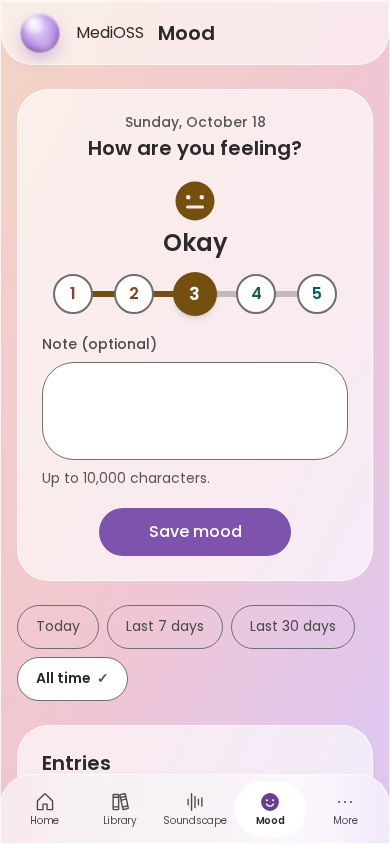
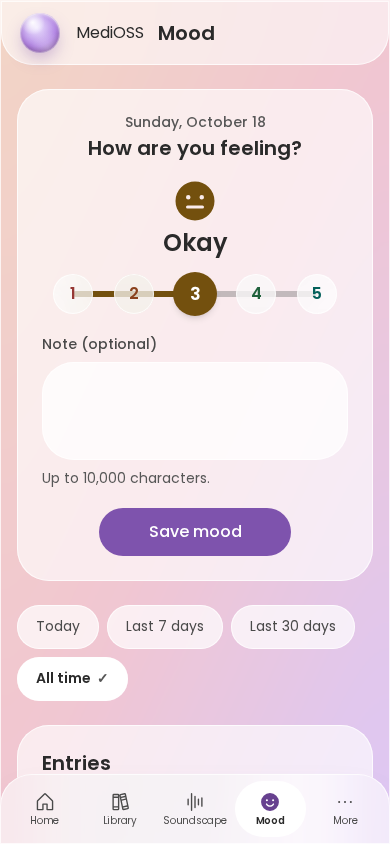
feat(web-ui): apply glass-control to every interactive control (Efe review) (#28)
* feat(web-ui): apply glass-control to every interactive control (Efe E1/E2)

The glass-control utility and --surface-control tokens shipped in
#26 but no component used them — chips, inputs, selects, textarea,
toggle, checkbox, popover trigger and the mood stops kept their flat
white fill. Apply the utility everywhere, and composite the control
fill over every surface in the contrast tests so text on the new
glass is proven >= 4.5:1.

* docs(pr): crops evidence + prettier formatting for glass controls

diff --git a/src/apps/web-ui/src/lib/components/ui/chip-group/chip-group.svelte b/src/apps/web-ui/src/lib/components/ui/chip-group/chip-group.svelte
@@ -45,10 +45,10 @@
       {@const selected = value === option.value}
       <label
         class={cn(
-          "relative inline-flex min-h-11 min-w-11 max-w-full cursor-pointer items-center justify-center gap-1.5 rounded-full border border-control-border px-4.5 py-1 text-center text-sm break-words [&_svg]:shrink-0 leading-tight select-none has-focus-visible:outline-2 has-focus-visible:outline-offset-2 has-focus-visible:outline-accent-strong motion-safe:transition-colors motion-safe:duration-(--duration-fast)",
+          "glass-control relative inline-flex min-h-11 min-w-11 max-w-full cursor-pointer items-center justify-center gap-1.5 rounded-full px-4.5 py-1 text-center text-sm break-words [&_svg]:shrink-0 leading-tight select-none has-focus-visible:outline-2 has-focus-visible:outline-offset-2 has-focus-visible:outline-accent-strong motion-safe:transition-colors motion-safe:duration-(--duration-fast)",
           selected
-            ? "bg-surface-solid font-semibold text-ink-strong"
-            : "bg-transparent font-normal text-ink-body hover:bg-surface-solid/50",
+            ? "glass-control-active font-semibold text-ink-strong"
+            : "font-normal text-ink-body hover:bg-surface-solid/50",
         )}
       >
         <input

diff --git a/src/apps/web-ui/src/styles/global-css-contrast.test.ts b/src/apps/web-ui/src/styles/global-css-contrast.test.ts
@@ -109,6 +109,10 @@ for (let i = 0; i < canvasStops.length; i++) {
 
 type Surface = { name: string; rgb: Rgb };
 
+function allSurfacesSoFar(out: Surface[]): Surface[] {
+  return [...out];
+}
+
 function surfaces(): Surface[] {
   const out: Surface[] = [];
   const shell = color("--surface-shell");
@@ -139,6 +143,19 @@ function surfaces(): Surface[] {
   out.push({
     name: "surface-panel-opaque",
     rgb: opaque("--surface-panel-opaque"),
+  });
+  // The glass-control fill over every canvas and surface: controls sit on
+  // the shell and panels, so their translucent white lands on all of it.
+  const control = color("--surface-control");
+  for (const base of allSurfacesSoFar(out)) {
+    out.push({
+      name: `surface-control over ${base.name}`,
+      rgb: over(control, base.rgb),
+    });
+  }
+  out.push({
+    name: "surface-control-opaque",
+    rgb: opaque("--surface-control-opaque"),
   });
   out.push({
     name: "accent-soft over surface-solid",
@@ -200,6 +217,8 @@ describe("global.css parser guard", () => {
       "--surface-shell",
       "--surface-panel",
       "--surface-solid",
+      "--surface-control",
+      "--surface-control-opaque",
     ]) {
       expect(() => color(name)).not.toThrow();
     }

diff --git a/src/apps/web-ui/src/lib/components/ui/input/input.svelte b/src/apps/web-ui/src/lib/components/ui/input/input.svelte
@@ -34,7 +34,7 @@
 
   const classes = $derived(
     cn(
-      "focus-ring h-12 w-full min-w-0 rounded-full border border-control-border bg-surface-solid px-5 text-base text-ink-strong placeholder:text-ink-muted aria-invalid:border-destructive disabled:cursor-not-allowed disabled:opacity-60 file:mr-3 file:border-0 file:bg-transparent file:py-3 file:text-sm file:font-medium file:text-ink-strong",
+      "glass-control focus-ring h-12 w-full min-w-0 rounded-full px-5 text-base text-ink-strong placeholder:text-ink-muted aria-invalid:border-destructive disabled:cursor-not-allowed disabled:opacity-60 file:mr-3 file:border-0 file:bg-transparent file:py-3 file:text-sm file:font-medium file:text-ink-strong",
       className,
     ),
   );

diff --git a/src/apps/web-ui/src/lib/components/ui/textarea/textarea.svelte b/src/apps/web-ui/src/lib/components/ui/textarea/textarea.svelte
@@ -40,7 +40,7 @@
   bind:this={ref}
   data-slot="textarea"
   class={cn(
-    "focus-ring block min-h-12 w-full min-w-0 resize-none overflow-hidden border border-control-border bg-surface-solid px-5 py-3 text-base leading-6 text-ink-strong placeholder:text-ink-muted aria-invalid:border-destructive disabled:cursor-not-allowed disabled:opacity-60",
+    "glass-control focus-ring block min-h-12 w-full min-w-0 resize-none overflow-hidden rounded-panel px-5 py-3 text-base leading-6 text-ink-strong placeholder:text-ink-muted aria-invalid:border-destructive disabled:cursor-not-allowed disabled:opacity-60",
     multiline ? "rounded-panel" : "rounded-full",
     className,
   )}

diff --git a/src/apps/web-ui/src/lib/components/filters/range-popover.svelte b/src/apps/web-ui/src/lib/components/filters/range-popover.svelte
@@ -99,7 +99,7 @@
   <Popover.Trigger
     aria-label={t(m.triggerLabel, { range: currentLabel })}
     class={cn(
-      "focus-ring inline-flex min-h-11 max-w-full items-center gap-2 rounded-full border border-control-border bg-surface-solid px-4.5 py-1 text-sm font-medium text-ink-strong motion-safe:transition-colors motion-safe:duration-(--duration-fast)",
+      "glass-control focus-ring inline-flex min-h-11 max-w-full items-center gap-2 rounded-full px-4.5 py-1 text-sm font-medium text-ink-strong motion-safe:transition-colors motion-safe:duration-(--duration-fast)",
       className,
     )}
   >

diff --git a/src/apps/web-ui/src/lib/components/ui/checkbox/checkbox.svelte b/src/apps/web-ui/src/lib/components/ui/checkbox/checkbox.svelte
@@ -37,9 +37,7 @@
     aria-hidden="true"
     class={cn(
       "inline-flex size-6 shrink-0 items-center justify-center rounded-md border text-primary-foreground peer-focus-visible:outline-2 peer-focus-visible:outline-offset-2 peer-focus-visible:outline-accent-strong motion-safe:transition-colors motion-safe:duration-(--duration-fast)",
-      checked
-        ? "border-accent-fill bg-accent-fill"
-        : "border-control-border bg-surface-solid",
+      checked ? "border-accent-fill bg-accent-fill" : "glass-control",
     )}
   >
     {#if checked}

diff --git a/src/apps/web-ui/src/lib/components/ui/toggle/toggle.svelte b/src/apps/web-ui/src/lib/components/ui/toggle/toggle.svelte
@@ -46,9 +46,7 @@
     aria-hidden="true"
     class={cn(
       "relative inline-flex h-7 w-12 shrink-0 items-center rounded-full border peer-focus-visible:outline-2 peer-focus-visible:outline-offset-2 peer-focus-visible:outline-accent-strong motion-safe:transition-colors motion-safe:duration-(--duration-fast)",
-      checked
-        ? "border-accent-fill bg-accent-fill"
-        : "border-control-border bg-surface-solid",
+      checked ? "border-accent-fill bg-accent-fill" : "glass-control",
     )}
   >
     <span

diff --git a/src/apps/web-ui/src/lib/components/mood/score-selector.svelte b/src/apps/web-ui/src/lib/components/mood/score-selector.svelte
@@ -143,10 +143,7 @@
                       "border-transparent text-primary-foreground shadow-md motion-safe:scale-110",
                       MOOD_FILL[score],
                     )
-                  : cn(
-                      "border-control-border bg-surface-solid",
-                      MOOD_TEXT[score],
-                    ),
+                  : cn("glass-control", MOOD_TEXT[score]),
               )}
             >
               {score}

diff --git a/src/apps/web-ui/src/lib/screens/admin/native-select.svelte b/src/apps/web-ui/src/lib/screens/admin/native-select.svelte
@@ -19,7 +19,7 @@
 <select
   bind:value
   class={cn(
-    "focus-ring h-12 w-full min-w-0 rounded-full border border-control-border bg-surface-solid px-5 text-base text-ink-strong disabled:cursor-not-allowed disabled:opacity-60",
+    "glass-control focus-ring h-12 w-full min-w-0 rounded-full px-5 text-base text-ink-strong disabled:cursor-not-allowed disabled:opacity-60",
     className,
   )}
   {...restProps}
